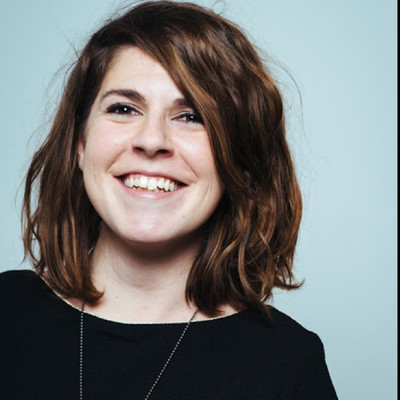
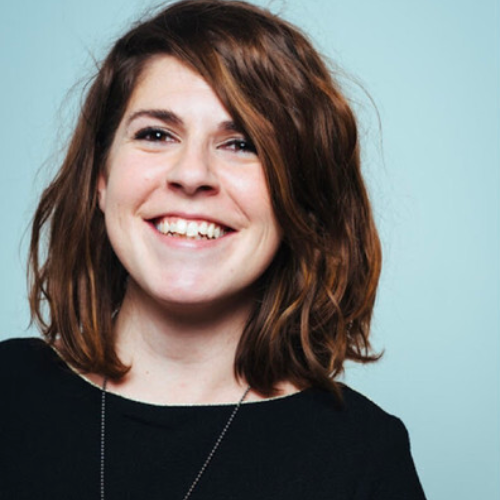
🐛 Fix issues on stories
- combo avatar
- jus mundi title

diff --git a/stories/fr/jus-mundi.md b/stories/fr/jus-mundi.md
@@ -1,7 +1,7 @@
 ---
 name: Jus Mundi
 date: 2025-09-18
-title: "Agilité, clarté et performance : comment Jus Mundi structure sa croissance avec Ocobo"
+title: "Jus Mundi accélère sa Serie B : d'un audit RevOps à une machine de croissance pilotée par la data."
 subtitle: Jus Mundi est une plateforme spécialisée dans la recherche et l'analyse juridique en droit international et arbitrage.
 description: Jus Mundi est une plateforme spécialisée dans la recherche et l'analyse juridique en droit international et arbitrage. Elle utilise l'intelligence artificielle pour donner accès à une vaste base de données de décisions, traités et jurisprudence, facilitant ainsi le travail des professionnels du droit à l'échelle mondiale.
 speaker: Luciana Collinet
